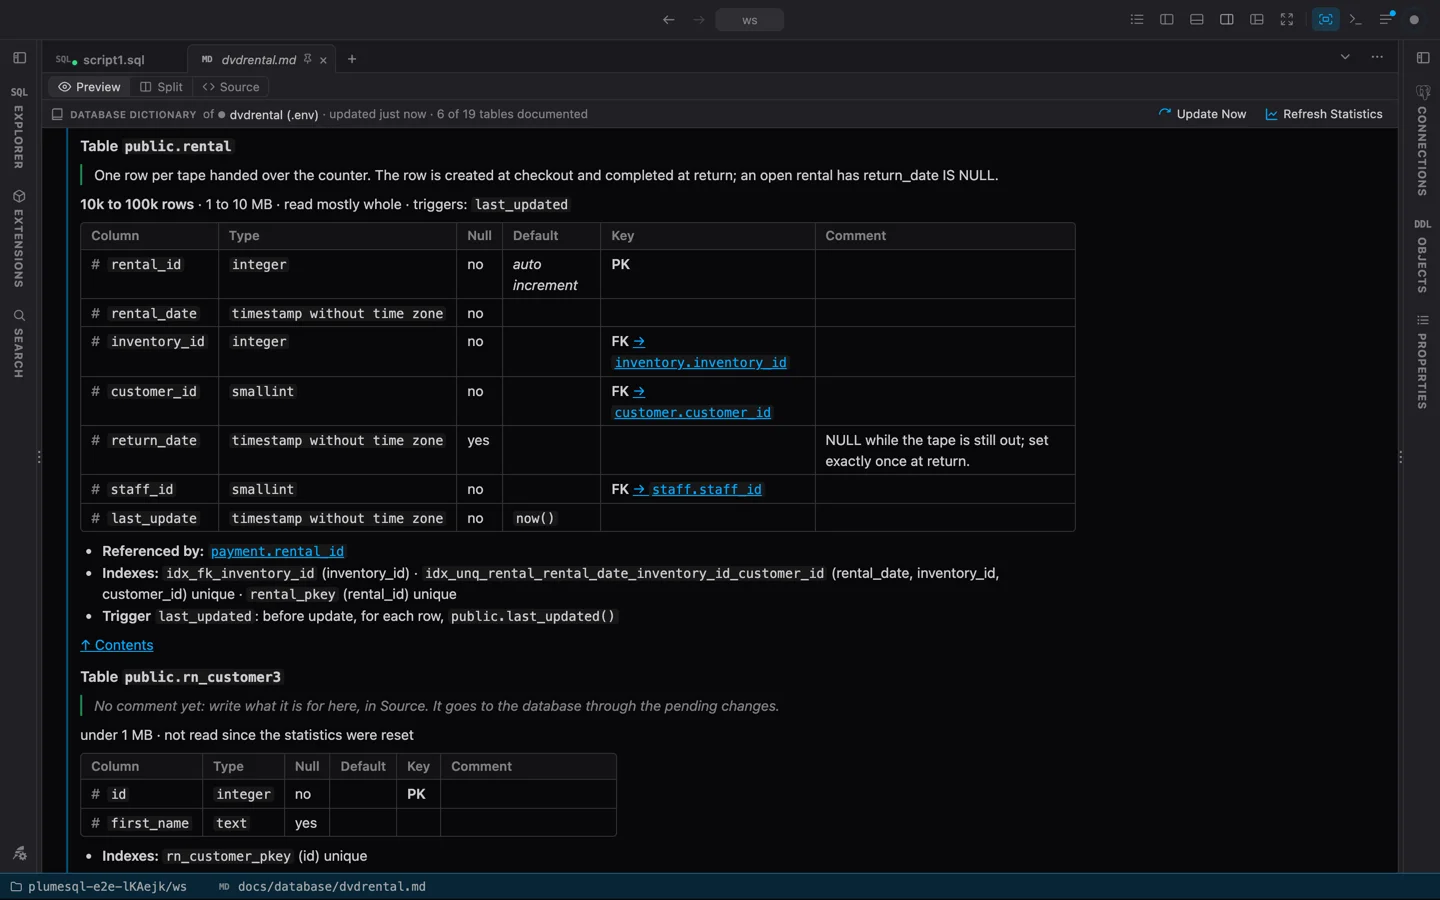
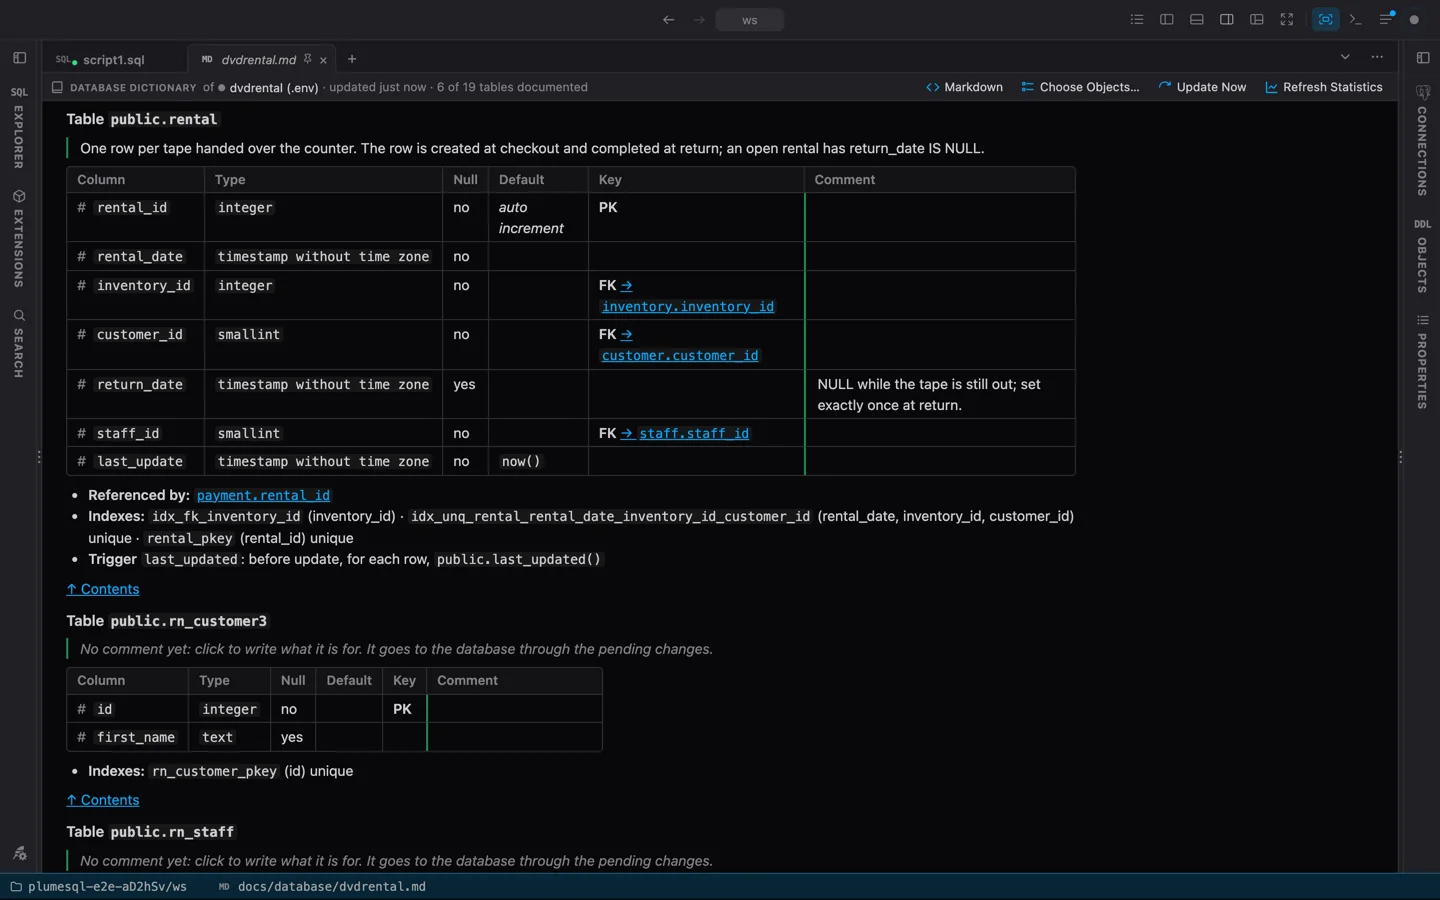
notes: the Database Dictionary as it reads now: the database's own comment, quiet in git, objects chosen like the Object filter, Markdown in the Explorer

Changed region(s): [[0.0312, 0.0933, 0.9688, 0.9956], [0.5312, 0.2489, 0.625, 0.28]]

diff --git a/changelog/free-v0.33.0/README.md b/changelog/free-v0.33.0/README.md
@@ -761,16 +761,18 @@ beside your code, of one connection, that PlumeSQL keeps up to date and GitHub s
   one of the connection's dictionaries and what you clicked joins it, or type a path for a new
   one (`docs/database/<database>.md` is proposed) that holds just that. Leave Out of Dictionary
   takes it out again.
-- **Choose what it holds like you filter Objects.** Choose Objects… opens a window like the
-  Object filter: every schema opens into its tables, views, functions, procedures, types and
+- **Choose what it holds like you filter Objects.** Its Properties page has the Object
+  filter's tree: every schema opens into its tables, views, functions, procedures, types and
   sequences, and a check means it is in the dictionary. Objects you added one by one or left out
   are listed below it, one click from undoing, and Add Object… brings in one more by name.
-- **Everything about each object.** A header with the server, its version, its extensions and
-  how much of it is documented; a table of contents; the relationships as a Mermaid diagram,
-  which GitHub draws; and for every table its comment, its columns with their types, defaults
-  and keys, every foreign key linked to the column it points at, what refers to it, its checks,
-  indexes, triggers and policies, and how big it is. Views, functions, procedures, enums and
-  domains have theirs.
+- **Everything about each object.** A header that opens with what the database is for, the
+  database's own comment, written right there in the document like any other comment, then its
+  extensions and how much of it is documented; a table of contents; the relationships as a
+  Mermaid diagram, which GitHub draws, every table a card with its name (and, if you like, its
+  key); and for every table its comment, its columns with their types, defaults and keys, every
+  foreign key linked to the column it points at, what refers to it, its checks, indexes,
+  triggers and policies, and how big it is. Views, functions, procedures, enums and domains have
+  theirs.
 - **A link to every column.** Each column has its own anchor, so a URL can point at it, and a
   link in a review or an issue opens the document right there.
 - **Write in it, and the database gets it.** Click a table's, a column's or a function's comment
@@ -783,11 +785,12 @@ beside your code, of one connection, that PlumeSQL keeps up to date and GitHub s
   your database said before, so nothing changes without you seeing it. Two people who write the
   same comment and both commit get a merge conflict, and PlumeSQL leaves such a file alone until
   it is resolved, and says so.
-- **Always current.** When the database changes, a comment waits, a diagram is saved or the
-  statistics are collected, the document is written again, only in the parts PlumeSQL keeps:
-  your own text around them is never touched, and a file that did not change is not written,
-  so git shows a change only when there is one. Sizes are said in ranges by default, so a
-  growing table does not change the file every day.
+- **Always current, and quiet in git.** When the database changes, a comment waits, a
+  diagram is saved, or you come back to PlumeSQL after a pull, the document is written again, only in the parts PlumeSQL keeps: your own
+  text around them is never touched, and a file that did not change is not written. It holds
+  only what your team shares, nothing of one computer's server or connection, so your
+  teammates' updates do not rewrite it. Sizes are said in ranges, and only Update Now or Refresh
+  Statistics writes them anew, so another computer's data never changes the file.
 - **A strip over it.** Whose dictionary it is, when it was updated, how much is documented,
   what waits to run, with Update Now and Refresh Statistics. Its settings are on its page in
   Properties, and an object's right click leaves it out of the dictionary or puts it back.
@@ -796,12 +799,19 @@ beside your code, of one connection, that PlumeSQL keeps up to date and GitHub s
 - **A menu of its own.** The Dictionary menu in the menu bar has everything for the dictionary
   in front, and so does the Command Palette. Diagrams got their own Diagram menu too, with the
   toolbar's actions by name.
-- **In the preview,** the parts PlumeSQL keeps are marked, an empty comment invites yours, and
-  the relationships open as a PlumeSQL diagram of those tables.
+- **It reads like a document.** It opens as it reads, with only what your team writes marked as
+  editable, an empty comment inviting yours; one Markdown button on its strip shows the source,
+  and the relationships open as a PlumeSQL diagram of those tables.
 
-![A Database Dictionary of dvdrental in the preview: the rental table's comment, its statistics in ranges, its columns with their anchors, keys linked to the columns they reference and a column's comment, under the strip with Update Now and Refresh Statistics](media/database-dictionary.webp)
+![A Database Dictionary of dvdrental in the preview: the rental table's comment, its columns with their anchors, keys linked to the columns they reference and a column's comment, an empty comment inviting one, under the strip with Markdown, Choose Objects…, Update Now and Refresh Statistics](media/database-dictionary.webp)
 
 ## What changed
+
+### Markdown files in the Explorer
+
+`.md` files are a kind of their own in the Explorer's filter, Markdown documents, and show by
+default like your SQL scripts and diagrams: a Database Dictionary or a README is there without
+Show All.
 
 ### A shorter right click in Objects
 
